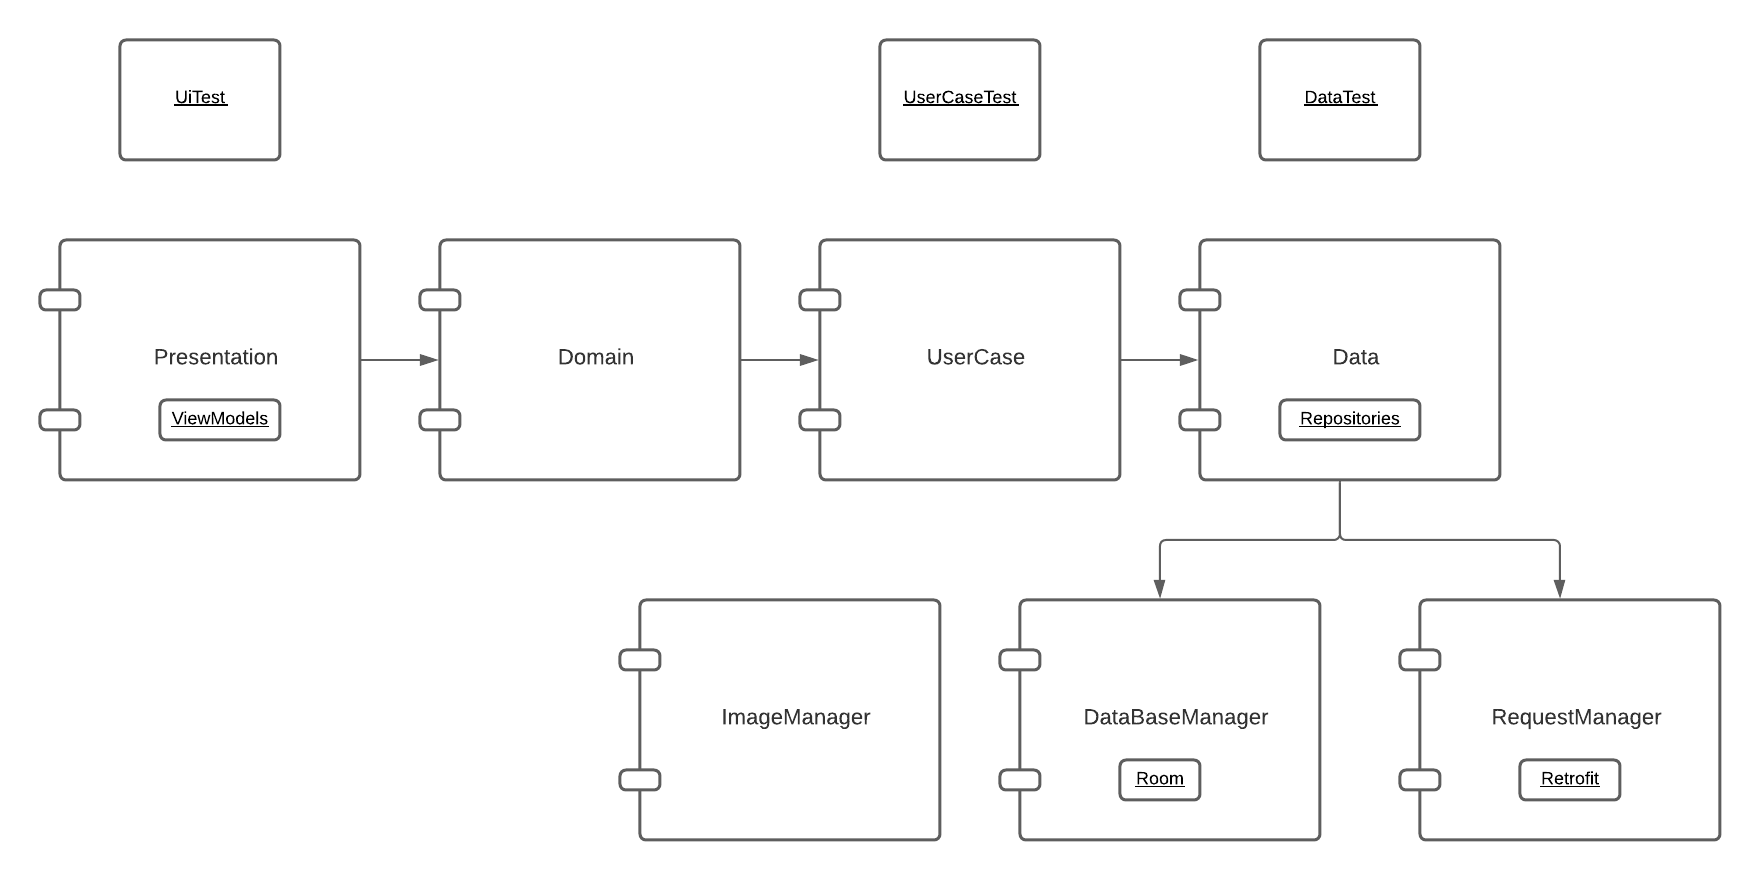
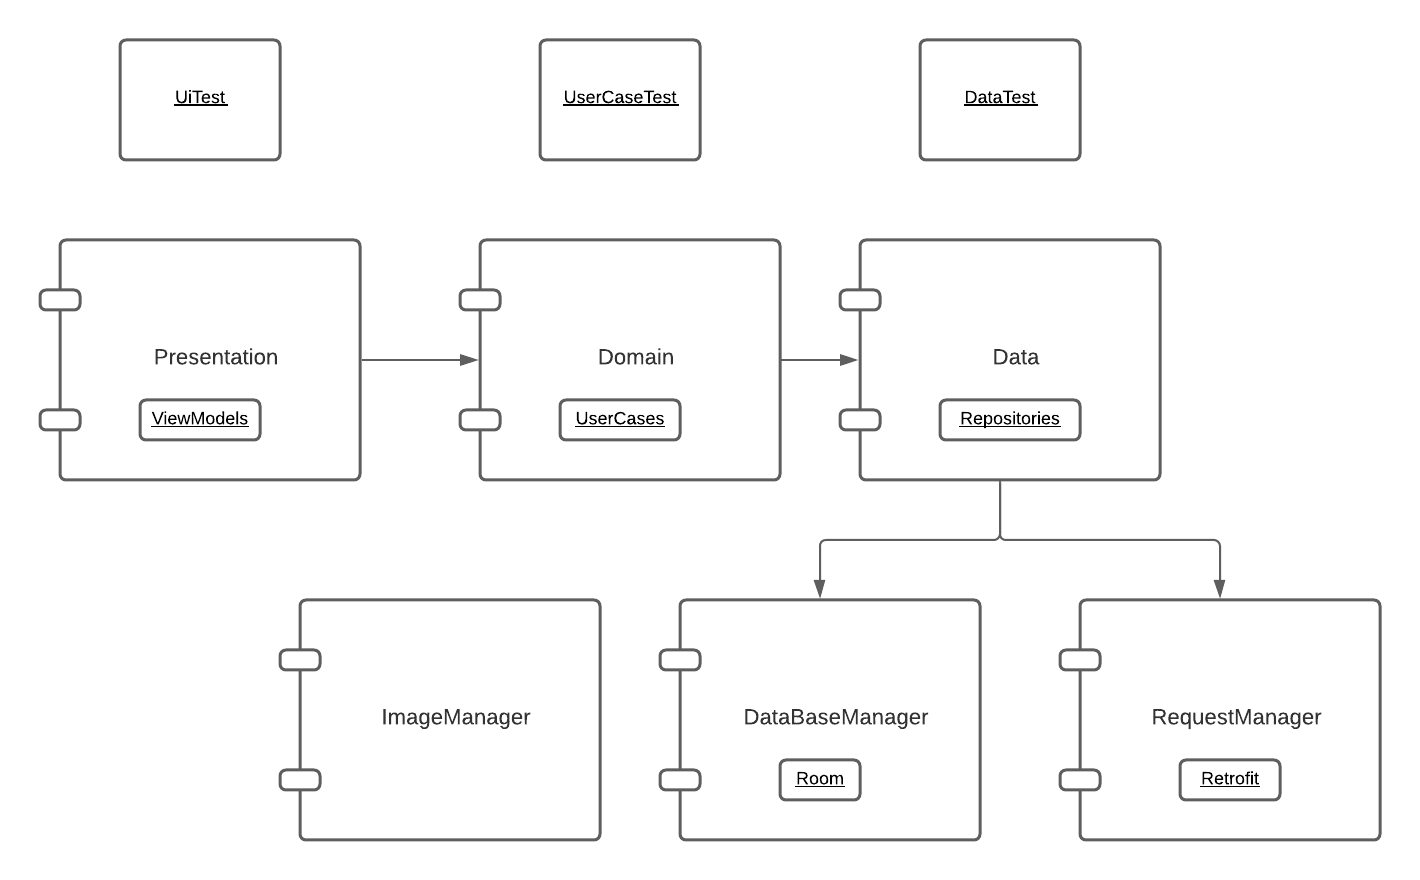
Renamed username module

diff --git a/app/src/main/java/com/francisco/meliclone/di/AppComponent.kt b/app/src/main/java/com/francisco/meliclone/di/AppComponent.kt
@@ -3,15 +3,15 @@ package com.francisco.meliclone.di
 import android.app.Application
 import com.francisco.data.di.RepositoryModule
 import com.francisco.databasemanager.di.DataBaseModule
+import com.francisco.domain.di.DomainModule
 import com.francisco.requestmanager.di.RequestManagerModule
-import com.francisco.usercases.di.UserCasesModule
 import dagger.BindsInstance
 import dagger.Component
 import javax.inject.Singleton
 
 @Singleton
 @Component(
-    modules = [UserCasesModule::class,
+    modules = [DomainModule::class,
         RepositoryModule::class,
         RequestManagerModule::class,
         DataBaseModule::class]

diff --git a/domain/src/main/java/com/francisco/domain/di/DomainModule.kt b/domain/src/main/java/com/francisco/domain/di/DomainModule.kt
@@ -1,13 +1,13 @@
-package com.francisco.usercases.di
+package com.francisco.domain.di
 
 import com.francisco.domain.ProductDetailRepository
 import com.francisco.domain.ProductListRepository
-import com.francisco.usercases.*
+import com.francisco.domain.usercases.*
 import dagger.Module
 import dagger.Provides
 
 @Module
-class UserCasesModule {
+class DomainModule {
 
     @Provides
     fun provideProductListUserCases(productListRepository: ProductListRepository) =

diff --git a/domain/src/test/java/com/francisco/domain/ProductDetailsUserCasesTest.kt b/domain/src/test/java/com/francisco/domain/ProductDetailsUserCasesTest.kt
@@ -1,7 +1,8 @@
-package com.francisco.usercases
+package com.francisco.domain
 
 import androidx.arch.core.executor.testing.InstantTaskExecutorRule
-import com.francisco.domain.ProductDetailRepository
+import com.francisco.domain.usercases.GetProductDetailsByItemId
+import com.francisco.domain.usercases.ProductDetailsUserCases
 import com.nhaarman.mockitokotlin2.mock
 import com.nhaarman.mockitokotlin2.whenever
 import kotlinx.coroutines.Dispatchers

diff --git a/app/src/main/java/com/francisco/meliclone/presentation/ProductDetailViewModel.kt b/app/src/main/java/com/francisco/meliclone/presentation/ProductDetailViewModel.kt
@@ -5,8 +5,8 @@ import androidx.lifecycle.MutableLiveData
 import androidx.lifecycle.ViewModel
 import androidx.lifecycle.viewModelScope
 import com.francisco.domain.DetailProductDomain
+import com.francisco.domain.usercases.ProductDetailsUserCases
 import com.francisco.meliclone.util.crashlyticsLog
-import com.francisco.usercases.ProductDetailsUserCases
 import kotlinx.coroutines.launch
 import timber.log.Timber
 import javax.inject.Inject

diff --git a/app/src/main/java/com/francisco/meliclone/presentation/ProductListViewModel.kt b/app/src/main/java/com/francisco/meliclone/presentation/ProductListViewModel.kt
@@ -5,8 +5,7 @@ import androidx.lifecycle.MutableLiveData
 import androidx.lifecycle.ViewModel
 import androidx.lifecycle.viewModelScope
 import com.francisco.domain.ProductDomain
-import com.francisco.usercases.ProductListUserCases
-import com.google.firebase.crashlytics.FirebaseCrashlytics
+import com.francisco.domain.usercases.ProductListUserCases
 import kotlinx.coroutines.launch
 import timber.log.Timber
 import java.io.IOException

diff --git a/domain/src/test/java/com/francisco/domain/ProductListUserCasesTest.kt b/domain/src/test/java/com/francisco/domain/ProductListUserCasesTest.kt
@@ -1,8 +1,8 @@
-package com.francisco.usercases
+package com.francisco.domain
 
 import androidx.arch.core.executor.testing.InstantTaskExecutorRule
+import com.francisco.domain.usercases.*
 
-import com.francisco.domain.ProductListRepository
 import com.nhaarman.mockitokotlin2.mock
 import com.nhaarman.mockitokotlin2.whenever
 import kotlinx.coroutines.Dispatchers

diff --git a/buildSrc/src/main/java/Dependencies.kt b/buildSrc/src/main/java/Dependencies.kt
@@ -60,7 +60,6 @@ object AndroidTestImplementationDependencies {
 object Modules {
     const val data = ":data"
     const val domain = ":domain"
-    const val userCases = ":usercases"
     const val requestManager = ":framework:requestmanager"
     const val databaseManager = ":framework:databasemanager"
     const val imageManager = ":framework:imagemanager"

diff --git a/app/src/main/java/com/francisco/meliclone/di/ProductDetailModule.kt b/app/src/main/java/com/francisco/meliclone/di/ProductDetailModule.kt
@@ -1,7 +1,7 @@
 package com.francisco.meliclone.di
 
+import com.francisco.domain.usercases.ProductDetailsUserCases
 import com.francisco.meliclone.presentation.ProductDetailViewModel
-import com.francisco.usercases.ProductDetailsUserCases
 import dagger.Module
 import dagger.Provides
 import dagger.Subcomponent

diff --git a/app/src/main/java/com/francisco/meliclone/di/ProductListModule.kt b/app/src/main/java/com/francisco/meliclone/di/ProductListModule.kt
@@ -1,7 +1,7 @@
 package com.francisco.meliclone.di
 
+import com.francisco.domain.usercases.ProductListUserCases
 import com.francisco.meliclone.presentation.ProductListViewModel
-import com.francisco.usercases.ProductListUserCases
 import dagger.Module
 import dagger.Provides
 import dagger.Subcomponent

diff --git a/app/src/main/java/com/francisco/meliclone/parcelable/ParcelableMappers.kt b/app/src/main/java/com/francisco/meliclone/parcelable/ParcelableMappers.kt
@@ -2,7 +2,7 @@ package com.francisco.meliclone.parcelable
 
 import android.os.Parcelable
 import com.francisco.domain.ProductDomain
-import kotlinx.android.parcel.Parcelize
+import kotlinx.parcelize.Parcelize
 
 @Parcelize
 data class ProductListParcelable(

diff --git a/buildSrc/src/main/java/Versions.kt b/buildSrc/src/main/java/Versions.kt
@@ -1,5 +1,5 @@
 object Versions {
-    const val build_gradle = "4.1.3"
+    const val build_gradle = "4.2.1"
     const val kotlin_version = "1.3.72"
     const val dagger_version = "2.36"
     const val coroutines_version = "1.3.0"

diff --git a/domain/src/main/java/com/francisco/domain/usercases/GetProductDetailsByItemId.kt b/domain/src/main/java/com/francisco/domain/usercases/GetProductDetailsByItemId.kt
@@ -1,4 +1,4 @@
-package com.francisco.usercases
+package com.francisco.domain.usercases
 
 import com.francisco.domain.DetailProductDomain
 import com.francisco.domain.ProductDetailRepository
